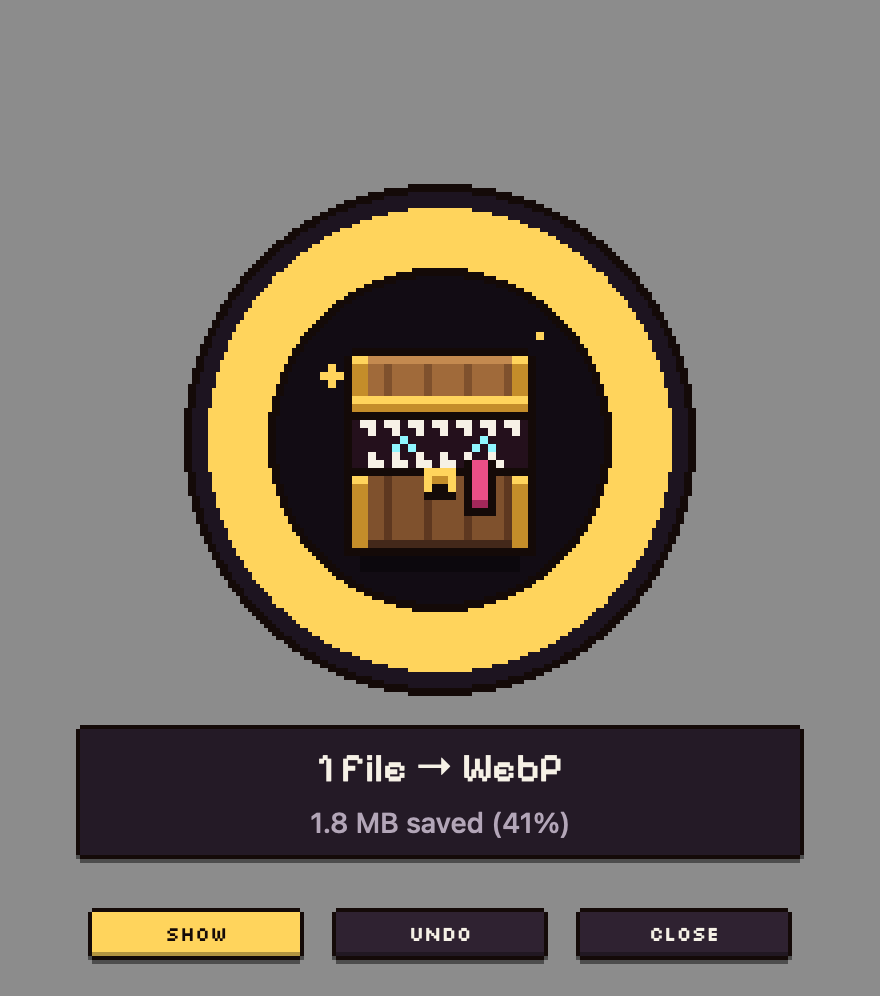
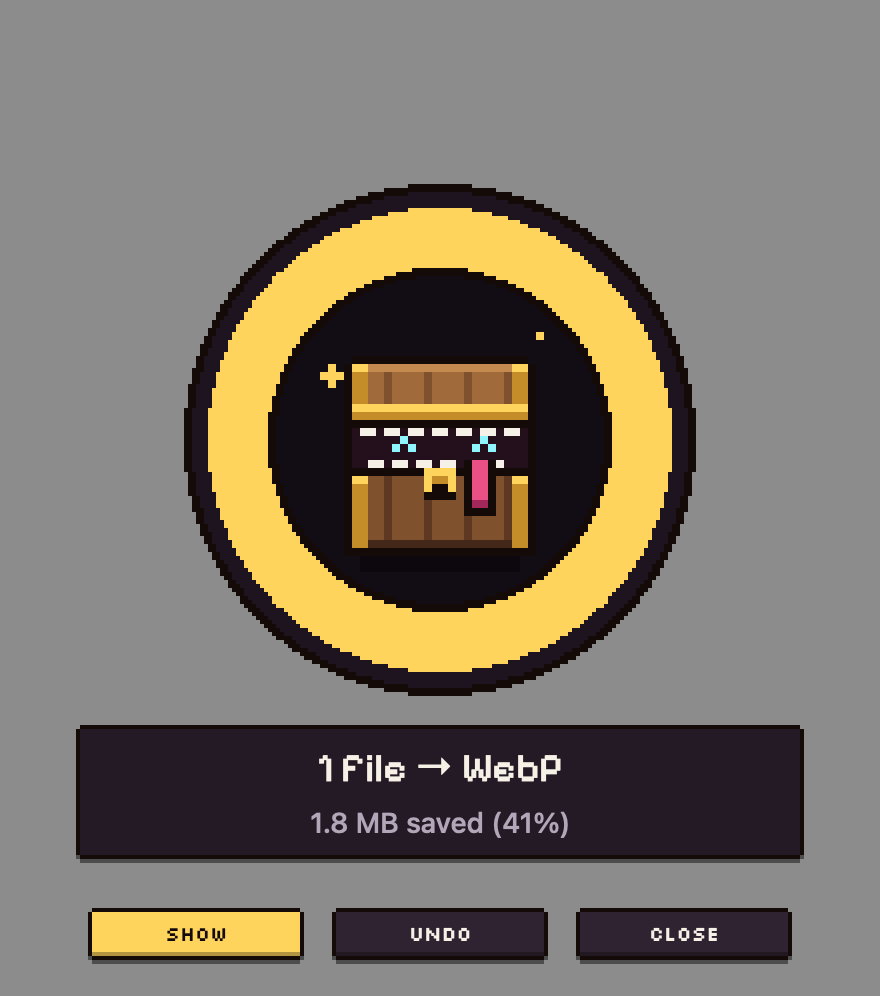
Chomp eats a random snack on every drop
Ten 8x8 pixel snacks (page, drumstick, sponge, brick, fish, cheese,
donut, sock, pizza, rubber duck). One is picked at random per drop: it
falls into the open mouth, the lid slams shut over it, and crumbs in the
snack's colour burst out. --snapshot also saves a sheet of every snack.

Changed region(s): [[0.3989, 0.3424, 0.6136, 0.4669]]

diff --git a/Sources/Chomp/Mimic.swift b/Sources/Chomp/Mimic.swift
@@ -5,7 +5,7 @@ enum MimicMood: Equatable {
     case idle            // closed, breathing, eyes glint now and then
     case peek(Int)       // lid cracked, eyes looking -1 left / 0 / 1 right
     case closed          // shut tight (hovering cancel)
-    case chomp           // one-shot: paper falls in, big bite, crumbs
+    case chomp(Int)      // one-shot: a snack (Food.all index) drops in, big bite, crumbs
     case working         // chewing loop
     case happy           // done: grin, tongue, sparkles
 }
@@ -13,7 +13,7 @@ enum MimicMood: Equatable {
 /// Pixel-art treasure-chest mimic, 32×33 grid. Wood, trim and eyes come from the skin.
 enum Mimic {
     enum Eyes { case none, glow, happy }
-    enum Tint { case tooth, gold, paper }
+    enum Tint { case tooth, gold, paper, color(Color) }
 
     struct Bit {
         let x: Int, y: Int, w: Int, h: Int
@@ -30,6 +30,8 @@ enum Mimic {
         var tongue = false
         var dx = 0
         var bits: [Bit] = []
+        /// A snack being eaten: its top-left y, and whether it has gone into the mouth (drawn under the lid).
+        var food: (index: Int, y: Int, inside: Bool)? = nil
     }
 
     // MARK: Fixed colours (same in every skin)
@@ -52,18 +54,30 @@ enum Mimic {
         return opens.indices.map { Frame(open: opens[$0], eyes: .glow, dx: dxs[$0]) }
     }()
 
-    static let chomp: [Frame] = [
-        Frame(open: 0, bits: [Bit(14, 2, 3, 4, .paper)]),
-        Frame(open: 0, bits: [Bit(14, 5, 3, 4, .paper)]),
-        Frame(open: 3, eyes: .glow, bits: [Bit(14, 6, 3, 4, .paper)]),
-        Frame(open: 6, eyes: .glow),
-        Frame(open: 8, eyes: .glow, tongue: true),
-        Frame(open: 8, eyes: .glow, tongue: true),
-        Frame(open: 3, eyes: .glow),
-        Frame(open: 0, dx: 1, bits: [Bit(3, 16), Bit(28, 15), Bit(2, 13, 1, 1, .gold)]),
-        Frame(open: 0, dx: -1, bits: [Bit(1, 13), Bit(30, 12), Bit(0, 10, 1, 1, .gold)]),
-        Frame(open: 0, bits: [Bit(0, 10), Bit(31, 9)]),
+    /// Seconds per frame of the bite, and how long the whole bite takes.
+    static let chompTick = 0.08
+    static let chompLength = Double(chompSteps.count + 3) * chompTick
+
+    /// Mouth opening and snack height for each step: Chomp opens up, the snack drops in, the lid snaps shut.
+    private static let chompSteps: [(open: Int, y: Int, inside: Bool, tongue: Bool)] = [
+        (0, -2, false, false), (2, 0, false, false), (5, 2, false, false), (8, 4, false, true),
+        (8, 7, false, true), (8, 11, true, false), (5, 12, true, false), (2, 13, true, false),
     ]
+
+    static func chomp(_ food: Int) -> [Frame] {
+        let k = Food.colors[Food.all[food % Food.all.count].crumb] ?? .white
+        var frames = chompSteps.map {
+            Frame(open: $0.open, eyes: $0.open > 0 ? .glow : .none, tongue: $0.tongue, food: (food, $0.y, $0.inside))
+        }
+        // Crumbs in the snack's colour burst out both sides as the lid slams.
+        func crumbs(_ spots: [(Int, Int, Int)]) -> [Bit] { spots.map { Bit($0.0, $0.1, $0.2, $0.2, .color(k)) } }
+        frames += [
+            Frame(open: 0, dx: 1, bits: crumbs([(2, 17, 2), (28, 16, 2), (5, 14, 1), (26, 13, 1)]) + [Bit(3, 12, 1, 1, .gold)]),
+            Frame(open: 0, dx: -1, bits: crumbs([(1, 13, 2), (29, 12, 2), (3, 10, 1), (27, 9, 1)]) + [Bit(30, 8, 1, 1, .gold)]),
+            Frame(open: 0, bits: crumbs([(0, 9, 2), (30, 8, 2), (2, 6, 1), (29, 5, 1)])),
+        ]
+        return frames
+    }
 
     static let working: [Frame] = [0, 2, 4, 4, 2, 0, 0, 0].map { Frame(open: $0, eyes: .glow, dx: $0 == 0 ? 0 : ($0 == 4 ? 1 : -1)) }
 
@@ -84,9 +98,10 @@ enum Mimic {
         case .closed: return Frame()
         case .peek(let look):
             return Frame(open: n % 30 == 0 ? 1 : 2, eyes: .glow, look: look)
-        case .chomp:
-            let i = max(0, Int(t.timeIntervalSince(since) / 0.075))
-            return i < chomp.count ? chomp[i] : Frame()
+        case .chomp(let food):
+            let frames = chomp(food)
+            let i = max(0, Int(t.timeIntervalSince(since) / chompTick))
+            return i < frames.count ? frames[i] : Frame()
         case .working: return working[n % working.count]
         case .happy: return happy[n % happy.count]
         }
@@ -113,11 +128,25 @@ enum Mimic {
         px(bx + 1, by + 1, 2, bh - 2, k.goldDark); px(bx + bw - 3, by + 1, 2, bh - 2, k.goldDark)
         px(bx + 1, by + 1, 2, 1, k.gold); px(bx + bw - 3, by + 1, 2, 1, k.gold)
 
+        func snack(_ sn: (index: Int, y: Int, inside: Bool)) {
+            let sprite = Food.all[sn.index % Food.all.count]
+            for (row, line) in sprite.rows.enumerated() {
+                let y = sn.y + row
+                // Once inside, only what's in the open mouth shows; the lid hides the rest.
+                if sn.inside && (y < by - open || y >= by) { continue }
+                for (col, ch) in line.enumerated() {
+                    guard let c = Food.colors[ch] else { continue }
+                    px(bx + 8 + col, y, 1, 1, c)
+                }
+            }
+        }
+
         // Mouth
         if open > 0 {
             px(bx, by - open, bw, open, ink)
             px(bx + 1, by - open, bw - 2, open, mouth)
         }
+        if let food = f.food, food.inside { snack(food) }
         if open >= 3 {
             x = bx + 3
             while x < bx + bw - 4 {
@@ -174,12 +203,15 @@ enum Mimic {
             px(bx + 16, by + 4, 2, 1, tongueDark)
         }
 
+        if let food = f.food, !food.inside { snack(food) }
+
         for b in f.bits {
             let c: Color
             switch b.tint {
             case .tooth: c = tooth
             case .gold: c = k.gold
             case .paper: c = paper
+            case .color(let col): c = col
             }
             px(b.x, b.y, b.w, b.h, c)
         }

diff --git a/Sources/Chomp/Food.swift b/Sources/Chomp/Food.swift
@@ -1,0 +1,128 @@
+import SwiftUI
+
+/// Snacks Chomp eats when you drop a file. One is picked at random each time.
+/// 8×8 sprites; each letter is a colour from `Food.colors`, `.` is see-through.
+struct Food {
+    let name: String
+    let rows: [String]
+    let crumb: Character     // colour of the crumbs that fly out
+
+    static let all: [Food] = [
+        Food(name: "page", rows: [
+            "kkkkkk..",
+            "kwwwwkk.",
+            "kwggwwwk",
+            "kwwwwwwk",
+            "kwggggwk",
+            "kwwwwwwk",
+            "kwggggwk",
+            "kkkkkkkk",
+        ], crumb: "w"),
+        Food(name: "drumstick", rows: [
+            "....kkk.",
+            "...koonk",
+            "..kooook",
+            "..kooonk",
+            ".kwkook.",
+            "kwk.kk..",
+            "kwwk....",
+            ".kk.....",
+        ], crumb: "o"),
+        Food(name: "sponge", rows: [
+            "kkkkkkkk",
+            "kGGGGGGk",
+            "kkkkkkkk",
+            "kyyyoyyk",
+            "kyoyyyyk",
+            "kyyyyoyk",
+            "kyoyyyyk",
+            "kkkkkkkk",
+        ], crumb: "y"),
+        Food(name: "brick", rows: [
+            "........",
+            "kkkkkkkk",
+            "krrgrrrk",
+            "kggggggk",
+            "krrrrgrk",
+            "kRRRRRRk",
+            "kkkkkkkk",
+            "........",
+        ], crumb: "r"),
+        Food(name: "fish", rows: [
+            "........",
+            "..kkkk.k",
+            ".kBBBBkB",
+            "kBkBBBBk",
+            "kBBBBBBk",
+            ".kBBBBkB",
+            "..kkkk.k",
+            "........",
+        ], crumb: "B"),
+        Food(name: "cheese", rows: [
+            "........",
+            "......kk",
+            "....kkyk",
+            "..kkyyyk",
+            "kkyyoyyk",
+            "kyyyyyok",
+            "kyoyyyyk",
+            "kkkkkkkk",
+        ], crumb: "y"),
+        Food(name: "donut", rows: [
+            "..kkkk..",
+            ".kpypBk.",
+            "kpBpppyk",
+            "kpk..kpk",
+            "knk..knk",
+            "knnnnnnk",
+            ".knnnnk.",
+            "..kkkk..",
+        ], crumb: "p"),
+        Food(name: "sock", rows: [
+            "...kkkk.",
+            "...kwwk.",
+            "...krrk.",
+            "...kwwk.",
+            "...krrk.",
+            "kkkkwwk.",
+            "kwwwwwk.",
+            "kkkkkkk.",
+        ], crumb: "r"),
+        Food(name: "pizza", rows: [
+            "kkkkkkkk",
+            "knnnnnnk",
+            ".kyryyk.",
+            ".kyyyrk.",
+            "..kryk..",
+            "..kyyk..",
+            "...kk...",
+            "........",
+        ], crumb: "y"),
+        Food(name: "duck", rows: [
+            "..kkk...",
+            ".kyyyk..",
+            ".kykyokk",
+            ".kyyyook",
+            "kkyyykk.",
+            "kyyyyyyk",
+            "kyyyyyyk",
+            ".kkkkkk.",
+        ], crumb: "y"),
+    ]
+
+    static let colors: [Character: Color] = [
+        "k": Color(hex: Pal.ink),
+        "w": Color(hex: 0xF6F1E6),
+        "g": Color(hex: 0xA59AA8),
+        "y": Color(hex: 0xFFD45C),
+        "o": Color(hex: 0xE8913A),
+        "n": Color(hex: 0xC9874A),
+        "r": Color(hex: 0xC8463C),
+        "R": Color(hex: 0x8A2A28),
+        "p": Color(hex: 0xEA4F86),
+        "G": Color(hex: 0x5FA34F),
+        "B": Color(hex: 0x5A9BD8),
+    ]
+
+    static func random() -> Int { Int.random(in: 0..<all.count) }
+}

diff --git a/Sources/Chomp/Wheel.swift b/Sources/Chomp/Wheel.swift
@@ -45,11 +45,12 @@ final class WheelModel: ObservableObject {
     @Published var outputs: [URL] = []
     @Published var pillHover: Int? = nil  // Show / Undo / Close under the wheel
     var jobID = 0
+    var food = 0                          // which snack Chomp eats this time
 
     /// Chomp follows the hovered segment with its eyes.
     var mood: MimicMood {
         switch stage {
-        case .eating: return .chomp
+        case .eating: return .chomp(food)
         case .working: return .working
         case .done(let ok): return ok ? .happy : .closed
         case .spat: return .closed
@@ -220,6 +221,7 @@ final class WheelController {
         // The wheel stays: Chomp bites, chews while the job runs, then shows the result in the ring.
         model.hover = nil
         model.chompAt = Date()
+        model.food = Food.random()
         model.stage = .eating
         model.jobTitle = ""
         model.jobDetail = ""
@@ -227,7 +229,7 @@ final class WheelController {
         jobs += 1
         model.jobID = jobs
         let t = token
-        DispatchQueue.main.asyncAfter(deadline: .now() + 0.75) { [weak self] in
+        DispatchQueue.main.asyncAfter(deadline: .now() + Mimic.chompLength) { [weak self] in
             guard let self, self.token == t, self.model.stage == .eating else { return }
             self.model.stage = .working
         }
@@ -251,7 +253,7 @@ final class WheelController {
         // Let the bite finish before the result lands.
         let bitten = Date().timeIntervalSince(model.chompAt ?? .distantPast)
         let t = token
-        DispatchQueue.main.asyncAfter(deadline: .now() + max(0, 0.75 - bitten)) { [weak self] in
+        DispatchQueue.main.asyncAfter(deadline: .now() + max(0, Mimic.chompLength - bitten)) { [weak self] in
             guard let self, self.token == t else { return }
             self.model.stage = .done(ok: ok)
             self.model.jobTitle = title

diff --git a/Sources/Chomp/Snapshot.swift b/Sources/Chomp/Snapshot.swift
@@ -39,6 +39,22 @@ enum Snapshot {
             save(WheelRoot(model: m).background(Color(white: 0.55)), "wheel-\(name)", dir)
         }
 
+        // Every snack at three moments of the bite: dropping in, inside the mouth, crumbs.
+        let sheet = VStack(spacing: 6) {
+            ForEach([2, 4, 6, 8], id: \.self) { step in
+                HStack(spacing: 6) {
+                    ForEach(0..<Food.all.count, id: \.self) { food in
+                        Canvas { ctx, _ in Mimic.draw(Mimic.chomp(food)[step], skin: .oak, in: &ctx, scale: 3) }
+                            .frame(width: 96, height: 99)
+                            .background(Color(hex: Pal.hole))
+                    }
+                }
+            }
+        }
+        .padding(8)
+        .background(Color(white: 0.55))
+        save(sheet, "foods", dir)
+
         let hud = HUD.shared
         hud.phase = .done
         hud.title = "1 file → WebP"
